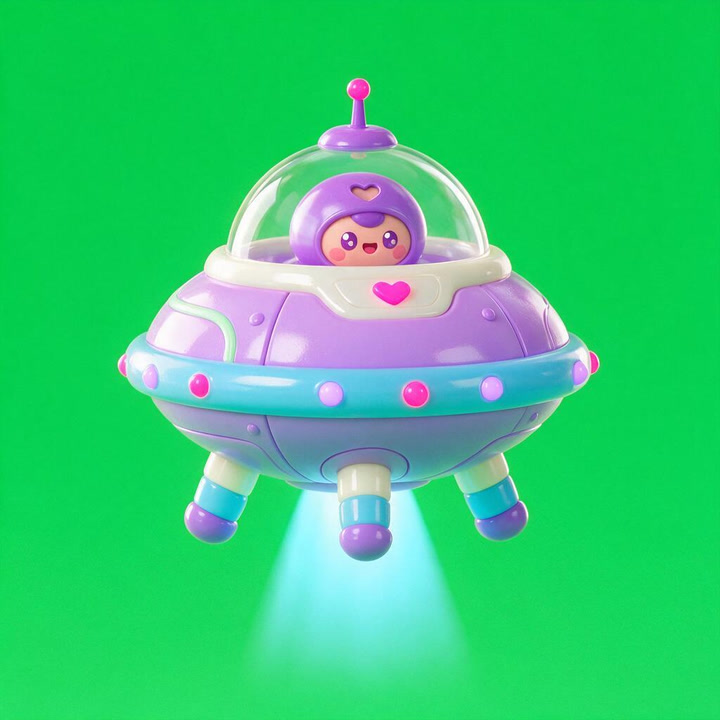
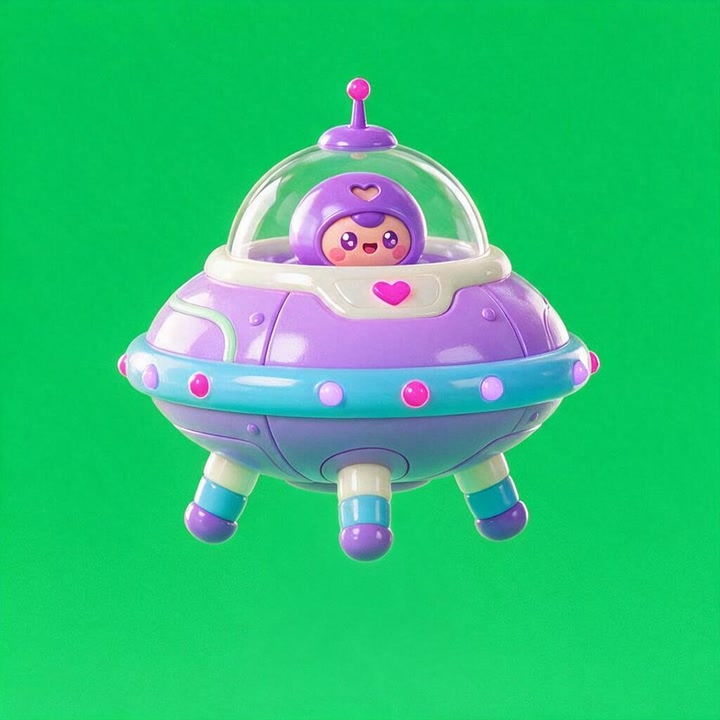
MV art: new pictures [skip ci]

diff --git a/design/mv-art/out/last-run.md b/design/mv-art/out/last-run.md
@@ -1,10 +1,6 @@
-# UI art — 2026-11-27T01:22:20.979Z
+# UI art — 2026-11-27T01:47:15.876Z
 
-Seedream 5.0 Pro / 6枚 / 約43円
+Seedream 5.0 Pro / 2枚 / 約14円
 
-- ✅ p5-mars-brother
-- ✅ p5-mars-kimorin
-- ✅ p5-mars-mikie
-- ✅ p5-mars-monban
-- ✅ p5-mars-sister
-- ✅ p5-mars-user
+- ✅ home-sp-ufo
+- ✅ home2-sp-ufo
